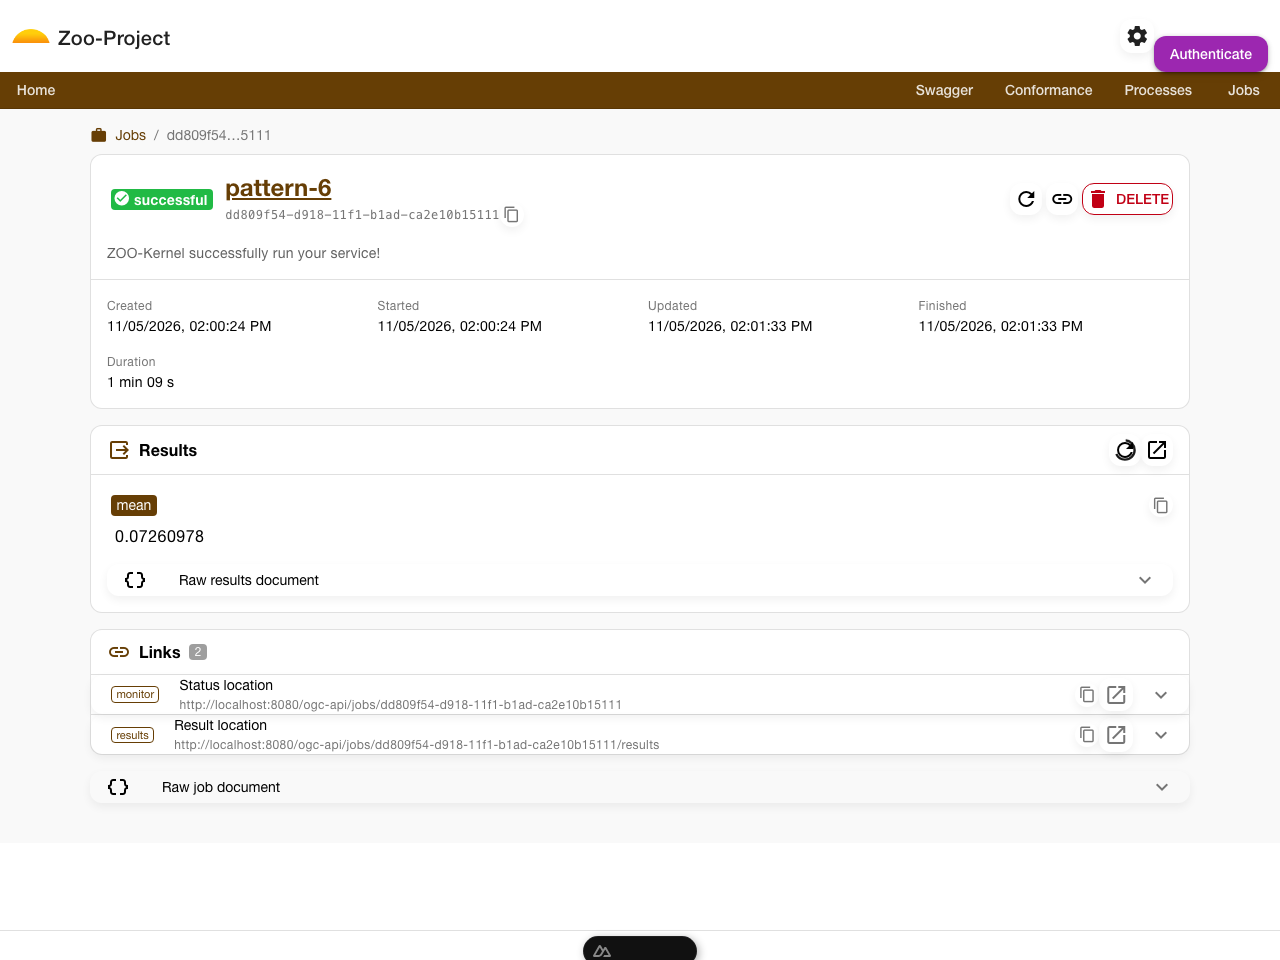
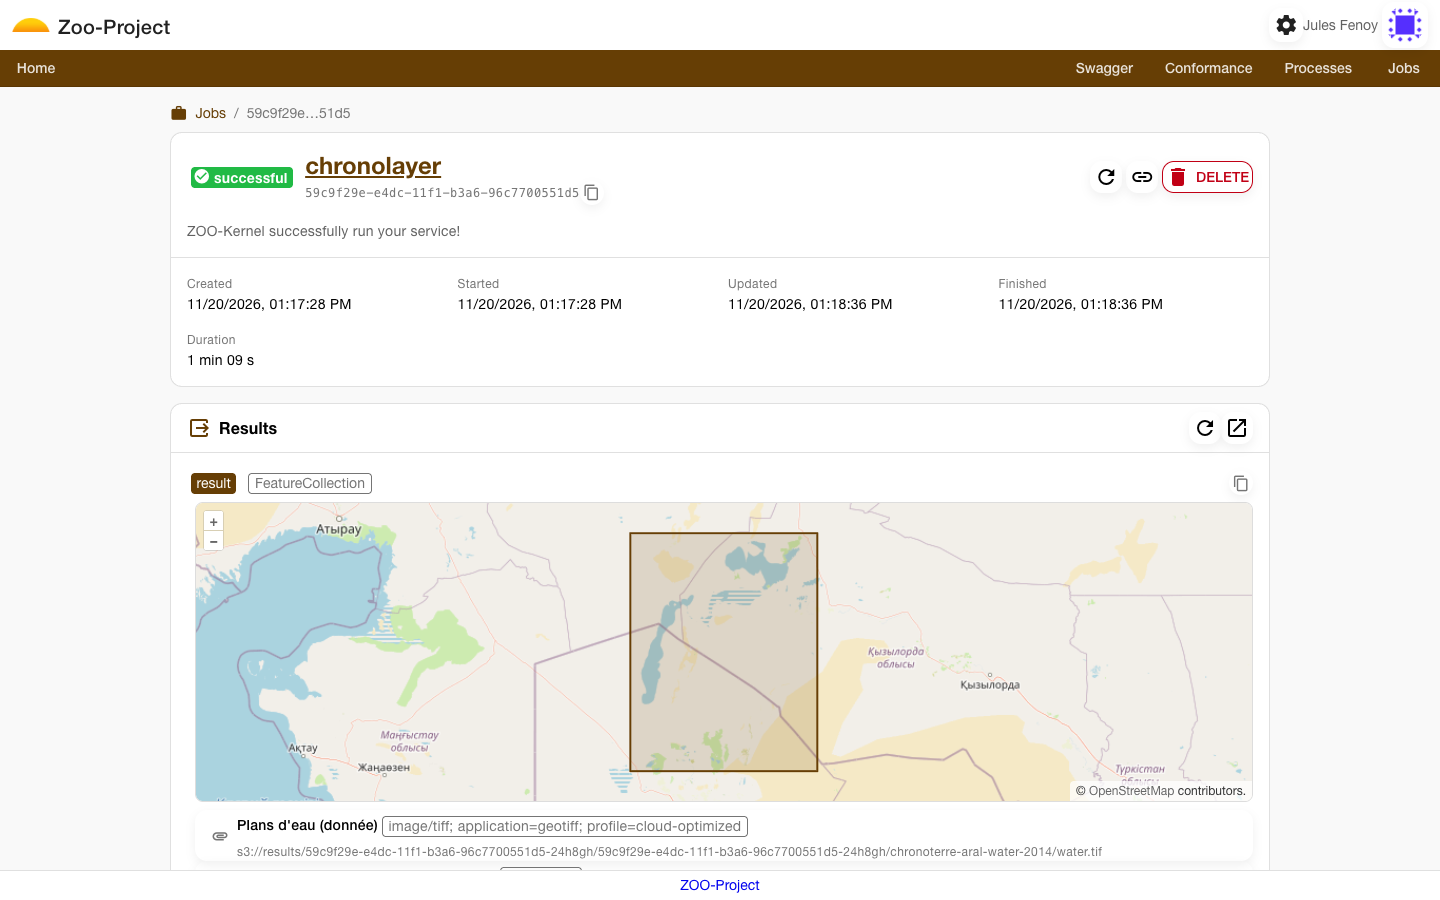
Refresh the README screenshots and add a gallery
The hero image is now a finished chronolayer job with its STAC result on
the map; the gallery shows the processes list, the workflow graph, the
deploy dialog, the execution form, the jobs list and the dark theme.
All screenshots were taken on the UI deployed in the local cluster.

diff --git a/README.md b/README.md
@@ -6,9 +6,13 @@ It lets you browse processes, deploy CWL application packages, execute processes
 their jobs — with an optional OpenID Connect (Keycloak) login.
 
 Built with [Nuxt 3](https://nuxt.com), [Vue 3](https://vuejs.org), [Quasar](https://quasar.dev),
-[OpenLayers](https://openlayers.org) and [@sidebase/nuxt-auth](https://sidebase.io/nuxt-auth).
+[OpenLayers](https://openlayers.org), [cwl-svg](https://github.com/rabix/cwl-svg) and
+[@sidebase/nuxt-auth](https://sidebase.io/nuxt-auth).
 
-![Jobs list](docs/images/jobs-list.png)
+![Job page: a chronolayer run with its STAC result drawn on the map and its assets listed below](docs/images/job-page.png)
+
+*A finished job: status, timeline, and the STAC `FeatureCollection` it produced, drawn on the map
+with the cloud-optimized GeoTIFF and PNG assets listed underneath.*
 
 ## Features
 
@@ -36,6 +40,17 @@ Built with [Nuxt 3](https://nuxt.com), [Vue 3](https://vuejs.org), [Quasar](http
 
 See the [user guide](docs/user-guide.md) for a page-by-page description, and
 [docs/known-issues.md](docs/known-issues.md) for the server-side problems the UI works around.
+
+## Screenshots
+
+| | |
+|---|---|
+| **Processes** with their kind, version and execution modes ![Processes list](docs/images/processes-list.png) | **Workflow graph** of a selected process, drawn from its CWL package, with the inputs and outputs ![CWL preview](docs/images/cwl-preview.png) |
+| **Deploy dialog**: paste, upload or fetch a package, validated and drawn before it is sent ![Deploy dialog](docs/images/deploy-dialog.png) | **Execution form** generated from the process description, here a string and a bounding box ![Execution page](docs/images/process-page.png) |
+| **Jobs list** with status chips, durations, filters and auto-refresh ![Jobs list](docs/images/jobs-list.png) | **Dark theme**, following the system setting or forced with `?theme=dark` ![Job page in dark mode](docs/images/job-page-dark.png) |
+
+The screenshots come from the UI deployed by the [zoo-project-dru Helm chart](https://github.com/ZOO-Project/charts)
+on a local cluster, signed in through a Keycloak realm.
 
 ## Quick start
 
@@ -94,6 +109,8 @@ the UI next to the server when `webui.enabled=true` and maps the variables above
 npm run dev          # dev server with HMR
 npm run test         # vitest unit tests (tests/)
 npm run build        # production build in .output/
+npx nuxi preview     # serve the production build locally (loads .env)
+npm audit            # dependency advisories; see CHANGELOG.md for the current state
 ```
 
 The project layout, the data flow (auth store, `useOgcApiServer`, `useJobsApi`) and the
